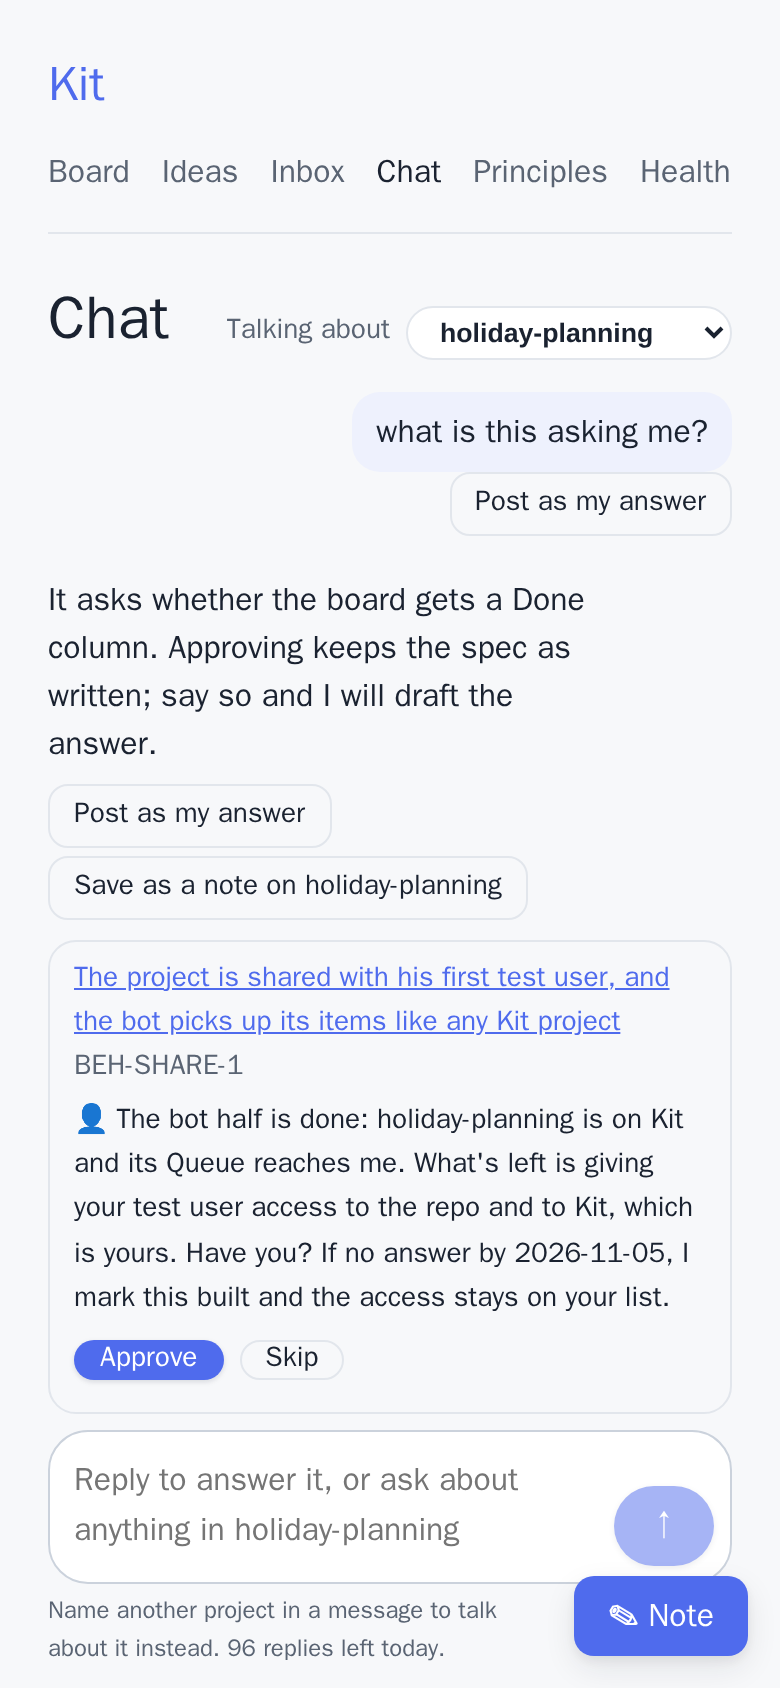
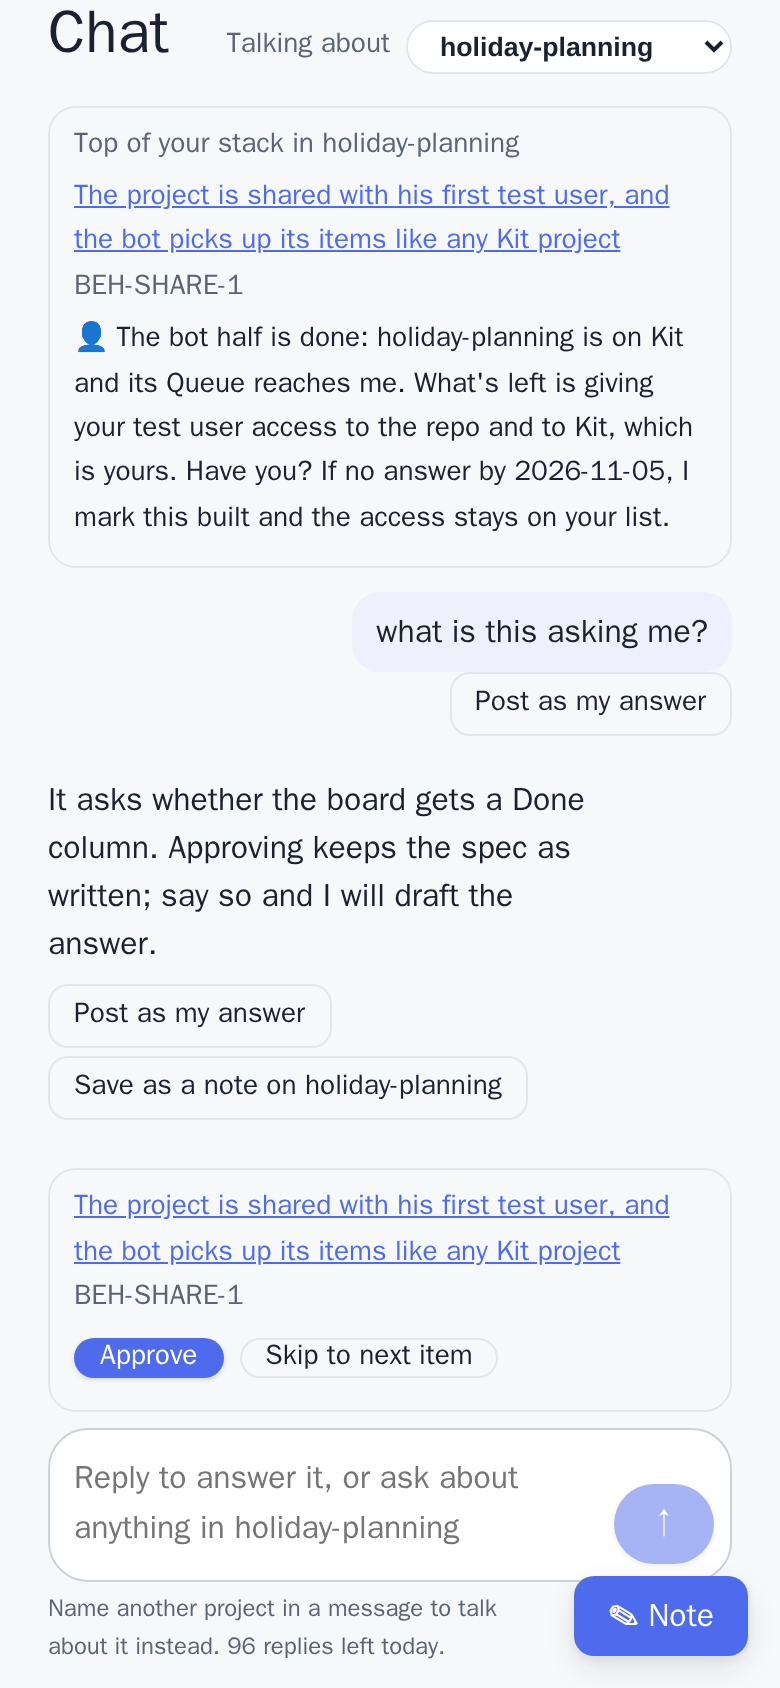
Chat: newest line scrolls above the dock, not under it; screenshots

diff --git a/prototypes/behaviour-ast/ui/src/pages/Chat.tsx b/prototypes/behaviour-ast/ui/src/pages/Chat.tsx
@@ -63,7 +63,7 @@ function Conversation({ entries, status }: { entries: Entry[]; status: TriageSta
   const [busy, setBusy] = useState(false)
   const [error, setError] = useState<string | null>(null)
   const [remaining, setRemaining] = useState(status.remaining)
-  const end = useRef<HTMLLIElement>(null)
+  const end = useRef<HTMLDivElement>(null)
 
   useEffect(() => {
     end.current?.scrollIntoView?.({ block: 'end' })
@@ -206,7 +206,6 @@ function Conversation({ entries, status }: { entries: Entry[]; status: TriageSta
             <div className="chat-bubble">The spec agent is replying…</div>
           </li>
         )}
-        <li ref={end} aria-hidden="true" className="chat-end" />
       </ol>
 
       <div className="chat-dock">
@@ -259,6 +258,9 @@ function Conversation({ entries, status }: { entries: Entry[]; status: TriageSta
         </p>
         {error && <p role="alert">{error}</p>}
       </div>
+      {/* Below the dock, not in the thread: scrolled to the foot of the page, the newest line sits just
+          above the docked box rather than under it. */}
+      <div ref={end} aria-hidden="true" className="chat-end" />
     </section>
   )
 }
